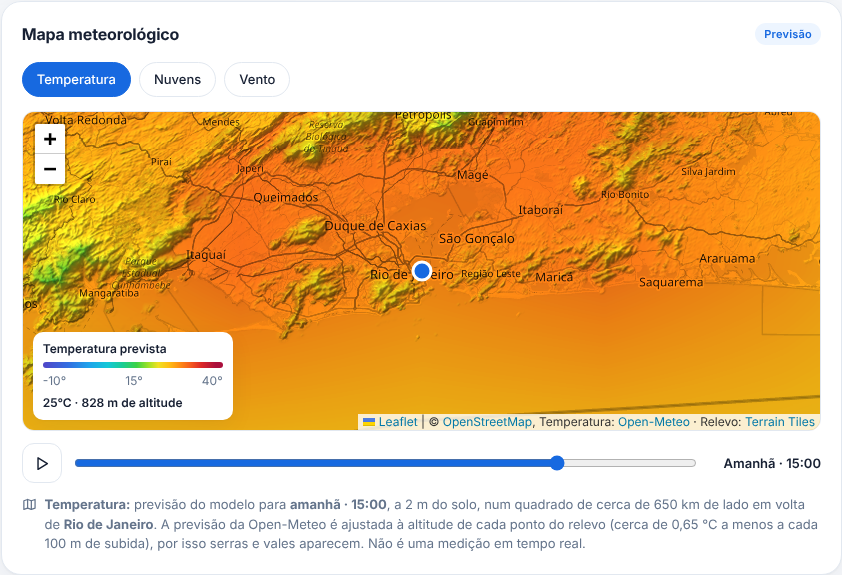
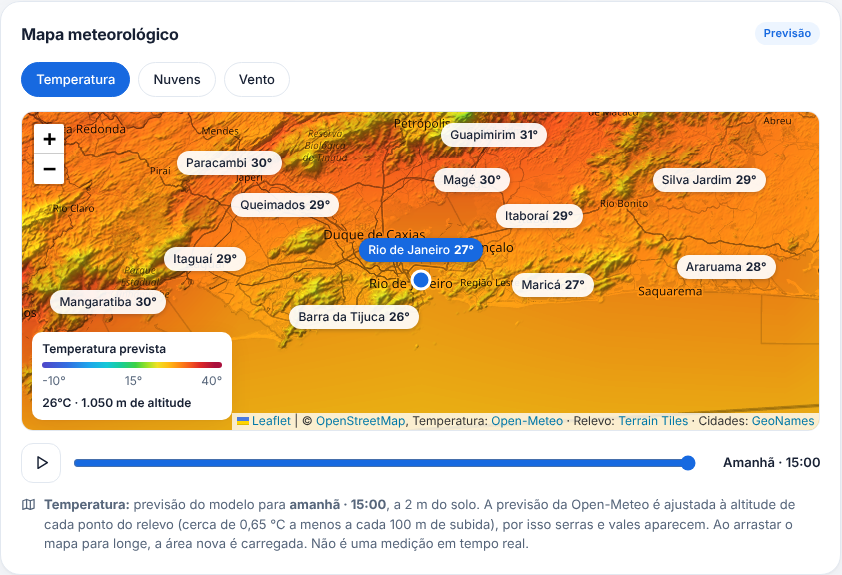
Atualiza os prints do README e corrige cards passando da tela no celular
- Prints novos com dados reais: painel claro, escuro, celular, tela
  inicial e as três camadas do mapa (Temperatura agora com os nomes e
  temperaturas das cidades).
- No celular e no tablet, o texto do selo de alerta dos favoritos
  alargava a coluna lateral e os cards de alertas e favoritos passavam
  da borda da tela; a coluna e a lista agora usam minmax(0, 1fr).
- O teste no Chrome passa a ter favoritos com selo (datas da cópia do
  INMET movidas para hoje) e confere se os cards cabem na largura real
  da tela, que pega esse defeito.

Claude-Session: https://claude.ai/code/session_016B33VCUmdfFRFeAmJsYvNz

diff --git a/site/css/app.css b/site/css/app.css
@@ -612,7 +612,7 @@ main { padding-top: 24px; padding-bottom: 32px; min-height: 100vh; outline: none
 .alerta-mais ul { padding-left: 18px; }
 .alerta-mais li + li { margin-top: 4px; }
 
-.favoritos-lista { margin: 0; padding: 0; list-style: none; display: grid; gap: 6px; }
+.favoritos-lista { margin: 0; padding: 0; list-style: none; display: grid; grid-template-columns: minmax(0, 1fr); gap: 6px; }
 .favorito { display: flex; align-items: center; border-radius: var(--raio-p); transition: background-color .2s; }
 .favorito:hover, .favorito.ativo { background: var(--primaria-suave); }
 .favorito-abrir {
@@ -780,7 +780,7 @@ main { padding-top: 24px; padding-bottom: 32px; min-height: 100vh; outline: none
 
 @media (max-width: 1024px) {
   .area-atual, .area-horas, .area-dias, .area-indicadores, .area-ar, .area-mapa { grid-column: span 12; }
-  .area-lateral { grid-column: span 12; display: grid; grid-template-columns: 1fr 1fr; }
+  .area-lateral { grid-column: span 12; display: grid; grid-template-columns: repeat(2, minmax(0, 1fr)); }
   .indicadores-grade { grid-template-columns: repeat(4, minmax(0, 1fr)); }
   .area-ar { grid-column: span 5; }
   .area-mapa { grid-column: span 7; }
@@ -794,7 +794,7 @@ main { padding-top: 24px; padding-bottom: 32px; min-height: 100vh; outline: none
   html { scroll-padding-top: 170px; }
 
   .painel { gap: 16px; }
-  .area-lateral { grid-template-columns: 1fr; gap: 16px; }
+  .area-lateral { grid-template-columns: minmax(0, 1fr); gap: 16px; }
   .area-ar, .area-mapa { grid-column: span 12; }
   .painel.com-mar .area-lua, .painel.com-mar .area-mar { grid-column: span 12; }
   .indicadores-grade { grid-template-columns: repeat(2, minmax(0, 1fr)); }

diff --git a/CLAUDE.md b/CLAUDE.md
@@ -66,7 +66,9 @@ node --test "tests/navegador/*.test.mjs"       # testes no Chrome (Playwright + 
   (`.favorito-alerta.nivel-*`), o título, quando (`em vigor`, `a partir das HH:MM`, `a partir de amanhã` ou da data,
   em horário de Brasília) e `+N` se houver mais (`seloDosAlertas` em `alertasOficiais.js`: o primeiro da lista já
   ordenada). Fora do Brasil ou se a consulta falhar, não há selo. No desktop os favoritos podem ocupar até 55% da
-  coluna lateral, para 4 cidades com selo caberem sem rolar.
+  coluna lateral, para 4 cidades com selo caberem sem rolar. No celular e no tablet, a grade de `.area-lateral` e a
+  `.favoritos-lista` usam `minmax(0, 1fr)`: com `1fr`, o texto do selo (que não quebra linha) alargava a coluna e os
+  cards de alertas e favoritos passavam da tela.
 - **Qualidade do ar com dois índices:** o painel mostra por padrão o **IQAr brasileiro** e permite trocar para o
   **EAQI europeu** nas configurações (`preferencias.indiceAr`: `"iqar"` | `"eaqi"`). `iqar.js` segue a Orientação
   Técnica do MMA de jan/2025 (Resolução CONAMA 506/2024): faixas do Quadro 1 (`POLUENTES_IQAR`), Equação 1 com
@@ -240,7 +242,9 @@ node --test "tests/navegador/*.test.mjs"       # testes no Chrome (Playwright + 
   `addInitScript`, que não passa pela CSP. Cada teste falha com qualquer erro de JavaScript, erro no console (inclui
   bloqueio da CSP), pedido que falhe ou problema do axe (WCAG 2.1 A/AA + boas práticas). Cobre: painel completo em
   claro, escuro e celular (gráfico e abas, janela do dia, Lua, Mar, sem rolagem lateral), mapa (Temperatura com rótulos,
-  Vento, Nuvens), busca + °F + modo escuro, "Consultando…" com INMET e qualidade do ar lentos e a tela inicial. Leva
+  Vento, Nuvens), busca + °F + modo escuro, favoritos com selo (a cópia do INMET tem as datas movidas para hoje em
+  `alertasDeHoje`) e cards dentro da largura da tela (compara com a largura configurada, não com `innerWidth`: no modo
+  celular o Chrome alarga a janela quando algo passa da tela), "Consultando…" com INMET e qualidade do ar lentos e a tela inicial. Leva
   ~20 s. Foi o teste que achou o `<header>` dentro da janela do dia (vira um segundo "banner" para leitores de tela; agora
   é `<div class="modal-cabecalho">`).
 - **Previsão offline:** `buscarPrevisao` (`servico.js`) guarda cada previsão que deu certo em `previsoesSalvas`

diff --git a/README.md b/README.md
@@ -11,11 +11,11 @@ Tem duas formas de usar: no terminal e num painel web completo.
 
 **Painel web (modo claro)**
 
-![Painel web no modo claro com o clima atual de São Paulo, alertas oficiais do INMET, cidades favoritas com a temperatura de agora e a previsão por hora](docs/painel-claro.png)
+![Painel web no modo claro com o clima atual de São Paulo, resumo das próximas horas, comparação com ontem, alertas oficiais do INMET, favoritos com selos de alerta e a previsão por hora](docs/painel-claro.png)
 
 **Painel completo (modo escuro)**
 
-![Painel web no modo escuro com clima atual do Rio de Janeiro, alertas oficiais do INMET, favoritos, previsão por hora, 10 dias, indicadores, qualidade do ar (IQAr) e mapa](docs/painel-escuro.png)
+![Painel web no modo escuro com clima atual do Rio de Janeiro, alertas oficiais do INMET, favoritos com selos, previsão por hora, 10 dias, indicadores, qualidade do ar (IQAr), mapa, Lua e Mar](docs/painel-escuro.png)
 
 <table>
   <tr>
@@ -28,7 +28,7 @@ Tem duas formas de usar: no terminal e num painel web completo.
 
 **Temperatura (modo claro)**
 
-![Mapa do Rio de Janeiro no modo claro com o mapa de calor da temperatura prevista: a Baixada em laranja e as serras em amarelo e verde, mais frias pela altitude](docs/mapa-temperatura.png)
+![Mapa do Rio de Janeiro no modo claro com o mapa de calor da temperatura prevista e os nomes e temperaturas das cidades: a Baixada em laranja e as serras em amarelo e verde, mais frias pela altitude](docs/mapa-temperatura.png)
 
 <table>
   <tr>
